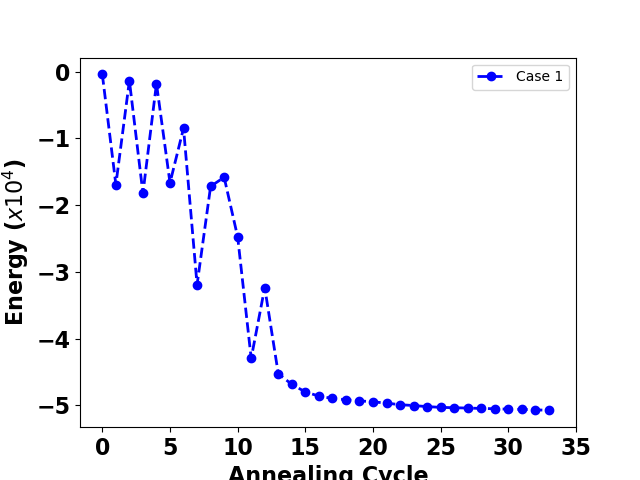
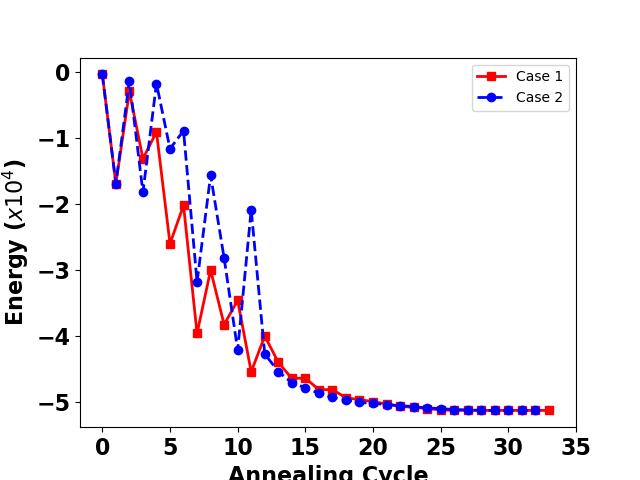
ok

diff --git a/Ising_computation_w_test_2.py b/Ising_computation_w_test_2.py
@@ -539,7 +539,7 @@ def ising_test_data_ver2():
     plt.show()
 
     # annealing
-    next_spin = annealing_ver2(30,1300,this_spin,image_size, cols)
+    next_spin = annealing_ver2(30,800,this_spin,image_size, cols)
     # start Ising
     this_spin,KPI,H_sigma_array = Ising_start(next_spin,J,rows,cols,1,Ising_KPI)
 
@@ -550,10 +550,10 @@ def ising_test_data_ver2():
     this_spin,KPI,H_sigma_array = Ising_start(next_spin,J,rows,cols,2,Ising_KPI)
 
 
-    # annealing
-    next_spin = annealing_ver2(3,1100,this_spin,image_size,cols)
-    # start Ising
-    this_spin,KPI,H_sigma_array = Ising_start(next_spin,J,rows,cols,1,Ising_KPI)
+    # # annealing
+    # next_spin = annealing_ver2(3,200,this_spin,image_size,cols)
+    # # start Ising
+    # this_spin,KPI,H_sigma_array = Ising_start(next_spin,J,rows,cols,1,Ising_KPI)
 
     # annealing
     next_spin = annealing_ver2(8,1200,this_spin,image_size,cols)
@@ -562,7 +562,7 @@ def ising_test_data_ver2():
 
 
     # annealing
-    next_spin = annealing_ver2(11,700,this_spin,image_size,cols)
+    next_spin = annealing_ver2(11,500,this_spin,image_size,cols)
     # start Ising
     this_spin,KPI,H_sigma_array = Ising_start(next_spin,J,rows,cols,2,Ising_KPI)
     plt.axis('off')
@@ -571,7 +571,7 @@ def ising_test_data_ver2():
     plt.show()
 
     # annealing
-    next_spin = annealing_ver2(42,500,this_spin,image_size,cols)
+    next_spin = annealing_ver2(42,1000,this_spin,image_size,cols)
     # start Ising
     this_spin,KPI,H_sigma_array = Ising_start(next_spin,J,rows,cols,1,Ising_KPI)
     # print(this_spin)
@@ -623,12 +623,12 @@ def ising_test_data_ver2():
     # plt.show()
     return KPI_new
 
-# KPI_test_data = ising_test_data()
+KPI_test_data = ising_test_data()
 KPI_new = ising_test_data_ver2()
 
 
 plt.figure(1)
-# plt.plot(KPI_test_data,marker='s', color='r', linewidth=2)
+plt.plot(KPI_test_data,marker='s', color='r', linewidth=2)
 plt.plot(KPI_new,marker='o', color='b',linestyle='dashed', linewidth=2)
 plt.legend(["Case 1", "Case 2"])
 plt.xlabel("Annealing Cycle",fontsize=16,fontweight='bold')
